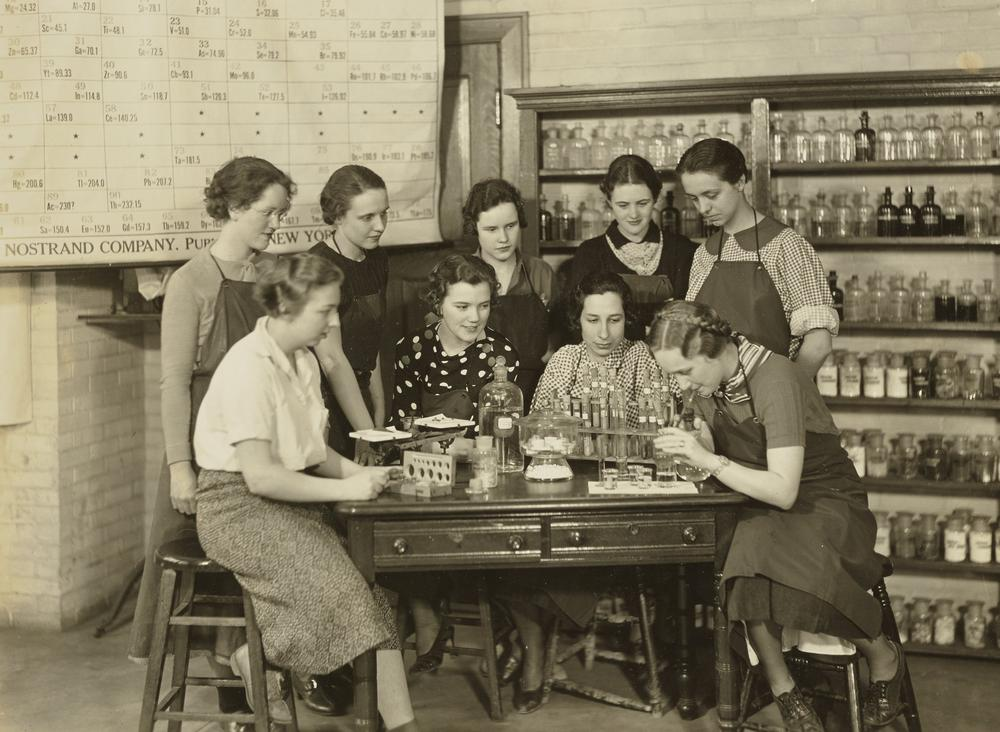
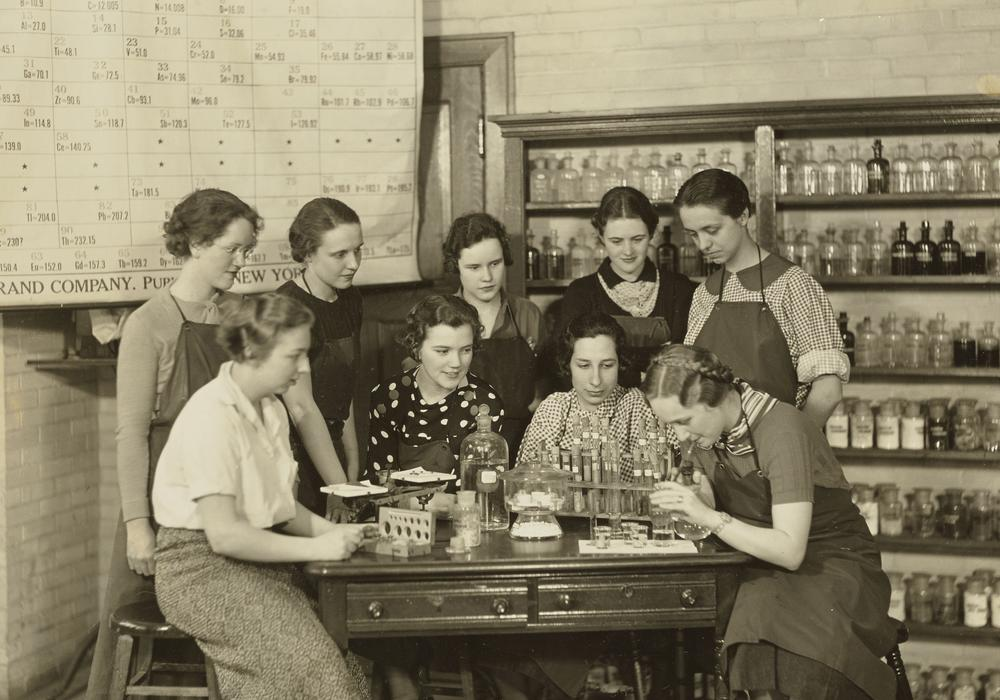
better aspect ratio for wilson; better instructions for cropping

diff --git a/app/assets/images/homepage/hero_images/README.md b/app/assets/images/homepage/hero_images/README.md
@@ -2,24 +2,19 @@
 The images in these directories are the large "hero" images used on the home page.
 * The component that displays these is at `app/components/home_page_hero_image_component.rb`
 * The metadata for these images is at `config/data/home_page_hero_images.yml`
-* Metadata includes links to the original crops on the P drive.
+  * Metadata includes links to the original crops on the P drive.
 * See also https://github.com/sciencehistory/scihist_digicoll/issues/2140
 
-### To create a new home page hero image
-This creates an image with its largest side equal to 1000px or 2000px.
+## Create a new home page hero image:
 
-1) Start with a large image (at least 2000px wide, ideally significantly more) named $original_giant_file.
-
-2) Use one of these sizes:
-```
-new_size = 1000 # to get the 1x image
-new_size = 2000 # to get the 2x image
-```
+1) Start with a large TIFF file
+  * Cropped as simply as possible from an original TIFF asset
+  * Wider than 2000px
+  * Aspect ratio: 10 x 7
+2) Upload the cropped image to the P drive and save the URL
 3) Resize your original image:
 ```
-width=$(vipsheader  -f width  $original_giant_file)
-height=$(vipsheader -f height $original_giant_file)
-size=$((width > height ? width : height))
-factor=$(bc <<< "scale=10; $new_size / $size")
-vips resize $original_giant_file $new_file_name $factor
+vipsthumbnail cropped_original.tiff --size 1000x -o homepage/hero_images/1x/new_file_1x.jpg
+vipsthumbnail cropped_original.tiff --size 2000x -o homepage/hero_images/1x/new_file_2x.jpg
 ```
+4) Add metadata into `config/data/home_page_hero_images.yml`
